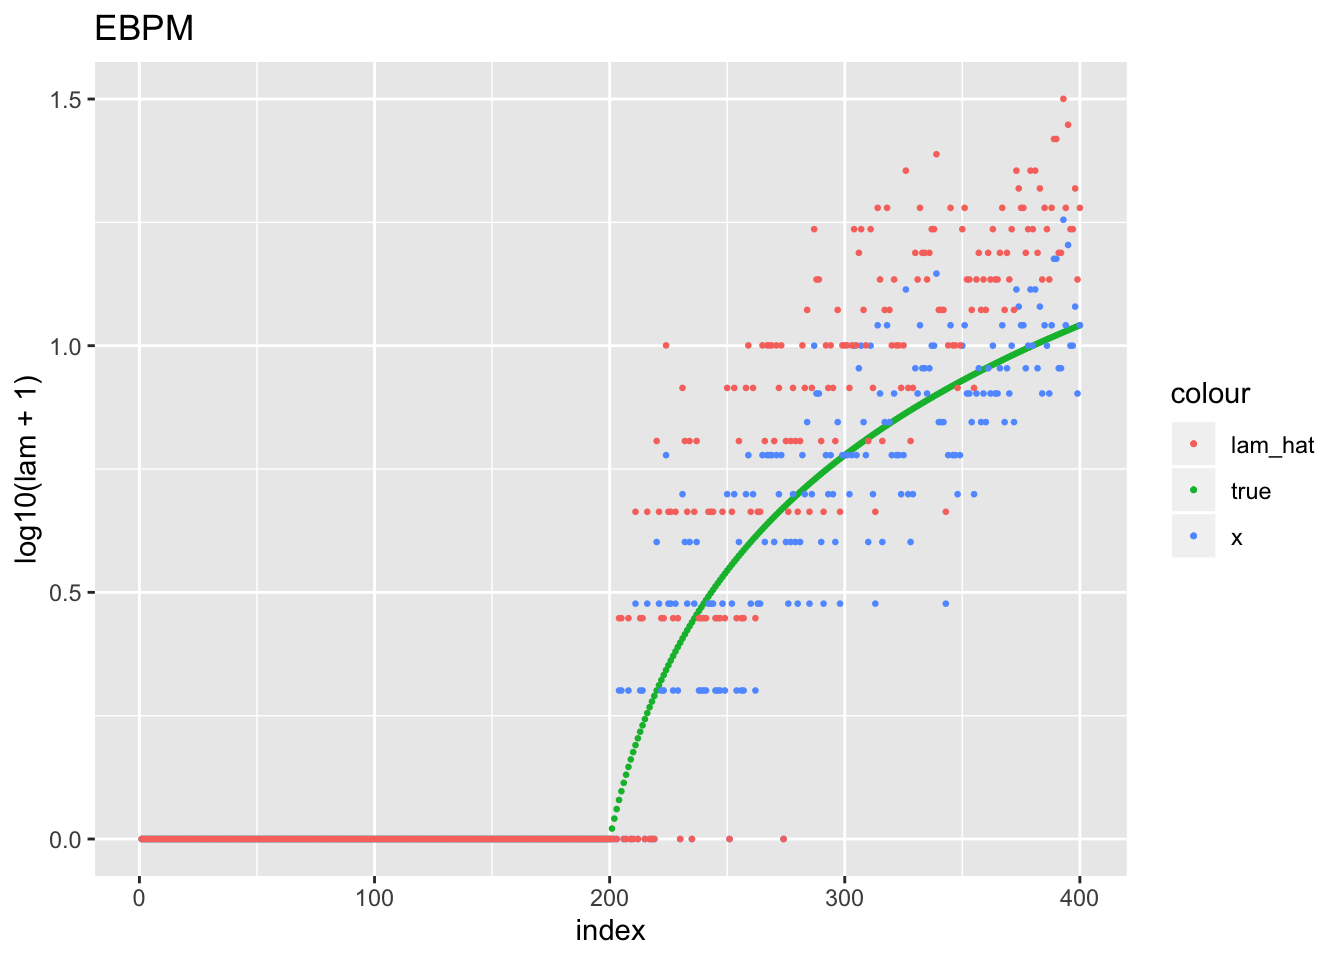
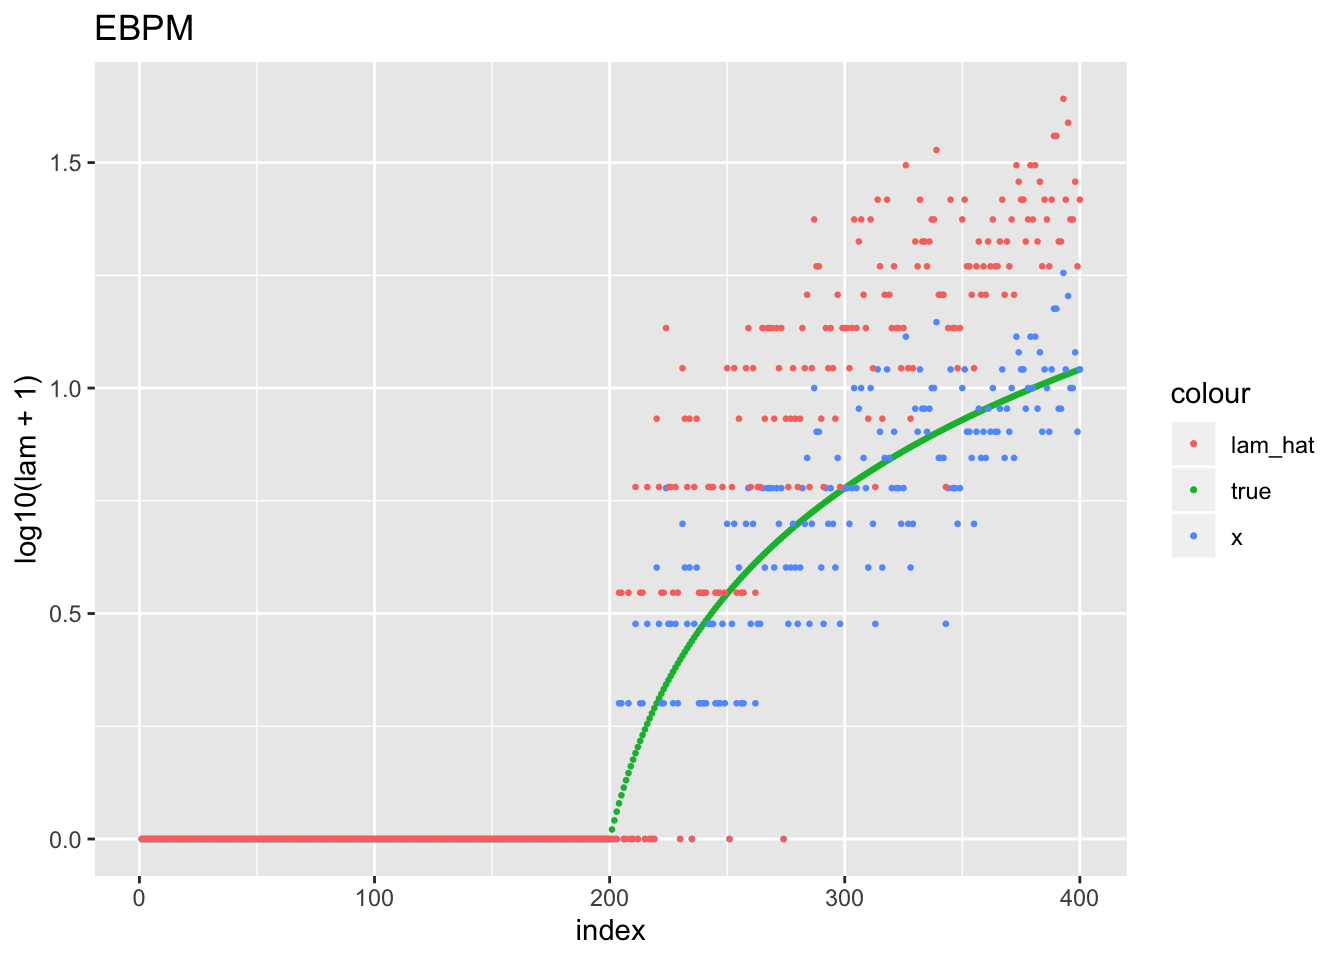
Build site.

diff --git a/docs/ebpm_demo.html b/docs/ebpm_demo.html
@@ -536,10 +536,10 @@ This reproducible <a href="http://rmarkdown.rstudio.com">R Markdown</a> analysis
 <div class="panel panel-default">
 <div class="panel-heading">
 <p class="panel-title">
-<a data-toggle="collapse" data-parent="#workflowr-checks" href="#strongRepositoryversionstrongahrefhttpsgithubcomzihao12ebpmftree5e5f539e3038b4ffe9b07972b3151549fee5183ftargetblank5e5f539a"> <span class="glyphicon glyphicon-ok text-success" aria-hidden="true"></span> <strong>Repository version:</strong> <a href="https://github.com/zihao12/ebpmf/tree/5e5f539e3038b4ffe9b07972b3151549fee5183f" target="_blank">5e5f539</a> </a>
+<a data-toggle="collapse" data-parent="#workflowr-checks" href="#strongRepositoryversionstrongahrefhttpsgithubcomzihao12ebpmftreea92d9abd42d9dd4b1cc9d9753665da52840533b6targetblanka92d9aba"> <span class="glyphicon glyphicon-ok text-success" aria-hidden="true"></span> <strong>Repository version:</strong> <a href="https://github.com/zihao12/ebpmf/tree/a92d9abd42d9dd4b1cc9d9753665da52840533b6" target="_blank">a92d9ab</a> </a>
 </p>
 </div>
[2 lines of base64/hex data omitted]
 <div class="panel-body">
 <p>
 Great! You are using Git for version control. Tracking code development and connecting the code version to the results is critical for reproducibility. The version displayed above was the version of the Git repository at the time these results were generated. <br><br> Note that you need to be careful to ensure that all relevant files for the analysis have been committed to Git prior to generating the results (you can use <code>wflow_publish</code> or <code>wflow_git_commit</code>). workflowr only checks the R Markdown file, but you know if there are other scripts or data files that it depends on. Below is the status of the Git repository when the results were generated:
@@ -589,6 +589,40 @@ Message
 </tr>
 </thead>
 <tbody>
+<tr>
+<td>
+Rmd
+</td>
+<td>
+<a href="https://github.com/zihao12/ebpmf/blob/a92d9abd42d9dd4b1cc9d9753665da52840533b6/analysis/ebpm_demo.Rmd" target="_blank">a92d9ab</a>
+</td>
+<td>
+zihao12
+</td>
+<td>
+2019-09-24
+</td>
+<td>
+demo ebpm update grid range
+</td>
+</tr>
+<tr>
+<td>
+html
+</td>
+<td>
+<a href="https://rawcdn.githack.com/zihao12/ebpmf/06d1f333d2a547f80b66ef1cbefb9d73344f963a/docs/ebpm_demo.html" target="_blank">06d1f33</a>
+</td>
+<td>
+zihao12
+</td>
+<td>
+2019-09-24
+</td>
+<td>
+Build site.
+</td>
+</tr>
 <tr>
 <td>
 Rmd
@@ -653,12 +687,15 @@ demo ebpm
 <pre class="r"><code>library(mixsqp)
 library(ggplot2)</code></pre>
 <pre><code>Warning: package &#39;ggplot2&#39; was built under R version 3.5.2</code></pre>
+<pre class="r"><code>library(gtools)</code></pre>
 </div>
 <div id="ebpm-gamma" class="section level2">
 <h2>EBPM-gamma</h2>
 <ul>
 <li>For now, I use mixture of exponential as prior family.</li>
-<li>Selecting grid needs to be improved.</li>
+<li>Under the exponential case, we discuss how to select the range of the grid (of <span class="math inline">\(\mu\)</span>). For convenience we use <span class="math inline">\(exp(\mu)\)</span> to denote exponential distribution with mean <span class="math inline">\(\mu\)</span>:<br />
+If <span class="math inline">\(x = 0\)</span>, <span class="math inline">\(\ell(\lambda) = - \lambda s\)</span>, in order to have a good likelihood, we want the model to be able to choose <span class="math inline">\(\lambda \sim o(\frac{1}{s})\)</span>. Therefore, we want the smallest <span class="math inline">\(\mu\)</span> to be in the order of <span class="math inline">\(o(\frac{1}{s})\)</span> if there is 0 count.<br />
+If <span class="math inline">\(x &gt; 0\)</span>, the MLE would be <span class="math inline">\(\frac{x}{s}\)</span>, and <span class="math inline">\(\lambda\)</span> too small would have bad likelihood. So we want the biggest <span class="math inline">\(\mu\)</span> to be of order <span class="math inline">\(O(max(\frac{x}{s}))\)</span></li>
 </ul>
 <pre class="r"><code>compute_L &lt;- function(x, s,a, b){
   M1 = (s^x)/gamma(x + 1)
@@ -671,14 +708,21 @@ library(ggplot2)</code></pre>
 }
 
 select_grid &lt;- function(x, s, nv){
+  ## mu_grid: mu =  1/b
+  x_d_s = x/s
+  xprime = x
+  xprime[x == 0] = xprime[x == 0] + 1
+  xprime_d_s = xprime/s
+  mu_grid = seq(0.1*min(xprime_d_s[which(xprime_d_s  &gt; 0)]),2*max(x_d_s), length.out = nv)
+  
   a = rep(1,nv)
-  b = seq(0.5*min(x/s) +  1e-4, 2*max(x/s), length.out = nv)
+  b = 1/mu_grid
   return(list(a = a, b  = b))
 }
 
-ebpm &lt;- function(x,s,nv = 100,seed = 123){
+ebpm &lt;- function(x,s,nv = 100, grid = NULL, seed = 123){
   set.seed(seed)
-  grid &lt;- select_grid(x,s,nv)
+  if(is.null(grid)){grid &lt;- select_grid(x,s,nv)}
   a = grid$a
   b =  grid$b
   L &lt;-  compute_L(x,s,a,b)
@@ -688,14 +732,30 @@ ebpm &lt;- function(x,s,nv = 100,seed = 123){
   pm = cpm %*% pi
   return(list(pi = pi, pm = pm, L = L, a  = a, b = b))
 }</code></pre>
-<pre class="r"><code>simulate_pm  &lt;-  function(seed = 123){
+<pre class="r"><code>## simulate from a mixture of gamma, with weight generated from a dirichlet 
+sim_mgamma &lt;- function(grid, pi){
+  a = grid$a
+  b = grid$b
+  idx = which(rmultinom(1,1, pi) == 1)
+  return(rgamma(n = 1,shape = a[idx], rate = b[idx]))
+}
+
+
+simulate_pm  &lt;-  function(grid = NULL, seed = 123){
   set.seed(seed)
-  lam_true &lt;- c(rep(0,199),seq(0,10,0.05))
+  if(is.null(grid)){lam_true &lt;- c(rep(0,199),seq(0,10,0.05)); pi = NULL}
+  else{
+    n_component = length(grid$a)
+    pi &lt;- rdirichlet(1,rep(1/n_component, n_component))
+    lam_true &lt;- rep(sim_mgamma(grid, pi), 400)
+  }
   #s  = runif(length(lam_true))
   s = rep(1, length(lam_true))
   x  = rpois(length(lam_true),s*lam_true)
-  return(list(x =  x, s = s, lam_true = lam_true))
+  return(list(x =  x, s = s, lam_true = lam_true, pi = pi))
 }</code></pre>
+<div id="lam_true-from-0-and-linspace" class="section level3">
+<h3>lam_true from 0 and linspace</h3>
 <pre class="r"><code>sim = simulate_pm()
 x = sim$x 
 s = sim$s
@@ -751,7 +811,11 @@ zihao12
                labs(x = &quot;x&quot;, y = &quot;lam_hat&quot;, title = &quot;EBPM&quot;) +
                guides(fill = &quot;color&quot;)+
                 geom_abline(slope = 1)</code></pre>
-<p><img src="figure/ebpm_demo.Rmd/unnamed-chunk-5-1.png" width="672" style="display: block; margin: auto;" /></p>
+<p><img src="figure/ebpm_demo.Rmd/unnamed-chunk-4-2.png" width="672" style="display: block; margin: auto;" /></p>
+</div>
+<div id="lam_true-from-mixture-of-gamma-same-as-grids-chosen-by-the-model" class="section level3">
+<h3>lam_true from mixture of gamma (same as grids chosen by the model)</h3>
+<p>I generate “lam_true” from a mixture of gamma. Then I give the gamma components (grids) to the model. So we can see if the model estimates mixture weights properly</p>
 <br>
 <p>
 <button type="button" class="btn btn-default btn-workflowr btn-workflowr-sessioninfo" data-toggle="collapse" data-target="#workflowr-sessioninfo" style="display: block;">
@@ -775,19 +839,20 @@ attached base packages:
 [1] stats     graphics  grDevices utils     datasets  methods   base     
 
 other attached packages:
-[1] ggplot2_3.2.0  mixsqp_0.1-120
+[1] gtools_3.8.1   ggplot2_3.2.0  mixsqp_0.1-120
 
 loaded via a namespace (and not attached):
- [1] Rcpp_1.0.2       knitr_1.23       whisker_0.3-2    magrittr_1.5    
- [5] workflowr_1.4.0  tidyselect_0.2.5 munsell_0.5.0    colorspace_1.4-1
- [9] R6_2.4.0         rlang_0.4.0      dplyr_0.8.1      stringr_1.4.0   
-[13] tools_3.5.1      grid_3.5.1       gtable_0.3.0     xfun_0.8        
-[17] withr_2.1.2      git2r_0.25.2     htmltools_0.3.6  assertthat_0.2.1
-[21] yaml_2.2.0       lazyeval_0.2.2   rprojroot_1.3-2  digest_0.6.19   
-[25] tibble_2.1.3     crayon_1.3.4     purrr_0.3.2      fs_1.3.1        
-[29] glue_1.3.1       evaluate_0.14    rmarkdown_1.13   labeling_0.3    
-[33] stringi_1.4.3    pillar_1.4.1     compiler_3.5.1   scales_1.0.0    
-[37] backports_1.1.4  pkgconfig_2.0.2 </code></pre>
+ [1] Rcpp_1.0.2       compiler_3.5.1   pillar_1.4.1     git2r_0.25.2    
+ [5] workflowr_1.4.0  tools_3.5.1      digest_0.6.19    evaluate_0.14   
+ [9] tibble_2.1.3     gtable_0.3.0     pkgconfig_2.0.2  rlang_0.4.0     
+[13] yaml_2.2.0       xfun_0.8         withr_2.1.2      stringr_1.4.0   
+[17] dplyr_0.8.1      knitr_1.23       fs_1.3.1         rprojroot_1.3-2 
+[21] grid_3.5.1       tidyselect_0.2.5 glue_1.3.1       R6_2.4.0        
+[25] rmarkdown_1.13   purrr_0.3.2      magrittr_1.5     whisker_0.3-2   
+[29] backports_1.1.4  scales_1.0.0     htmltools_0.3.6  assertthat_0.2.1
+[33] colorspace_1.4-1 labeling_0.3     stringi_1.4.3    lazyeval_0.2.2  
+[37] munsell_0.5.0    crayon_1.3.4    </code></pre>
+</div>
 </div>
 </div>
 

diff --git a/docs/index.html b/docs/index.html
@@ -375,10 +375,10 @@ This reproducible <a href="http://rmarkdown.rstudio.com">R Markdown</a> analysis
 <div class="panel panel-default">
 <div class="panel-heading">
 <p class="panel-title">
-<a data-toggle="collapse" data-parent="#workflowr-checks" href="#strongRepositoryversionstrongahrefhttpsgithubcomzihao12ebpmftree5e5f539e3038b4ffe9b07972b3151549fee5183ftargetblank5e5f539a"> <span class="glyphicon glyphicon-ok text-success" aria-hidden="true"></span> <strong>Repository version:</strong> <a href="https://github.com/zihao12/ebpmf/tree/5e5f539e3038b4ffe9b07972b3151549fee5183f" target="_blank">5e5f539</a> </a>
+<a data-toggle="collapse" data-parent="#workflowr-checks" href="#strongRepositoryversionstrongahrefhttpsgithubcomzihao12ebpmftreea92d9abd42d9dd4b1cc9d9753665da52840533b6targetblanka92d9aba"> <span class="glyphicon glyphicon-ok text-success" aria-hidden="true"></span> <strong>Repository version:</strong> <a href="https://github.com/zihao12/ebpmf/tree/a92d9abd42d9dd4b1cc9d9753665da52840533b6" target="_blank">a92d9ab</a> </a>
 </p>
 </div>
[2 lines of base64/hex data omitted]
 <div class="panel-body">
 <p>
 Great! You are using Git for version control. Tracking code development and connecting the code version to the results is critical for reproducibility. The version displayed above was the version of the Git repository at the time these results were generated. <br><br> Note that you need to be careful to ensure that all relevant files for the analysis have been committed to Git prior to generating the results (you can use <code>wflow_publish</code> or <code>wflow_git_commit</code>). workflowr only checks the R Markdown file, but you know if there are other scripts or data files that it depends on. Below is the status of the Git repository when the results were generated:
@@ -428,6 +428,23 @@ Message
 </tr>
 </thead>
 <tbody>
+<tr>
+<td>
+html
+</td>
+<td>
+<a href="https://rawcdn.githack.com/zihao12/ebpmf/06d1f333d2a547f80b66ef1cbefb9d73344f963a/docs/index.html" target="_blank">06d1f33</a>
+</td>
+<td>
+zihao12
+</td>
+<td>
+2019-09-24
+</td>
+<td>
+Build site.
+</td>
+</tr>
 <tr>
 <td>
 html
